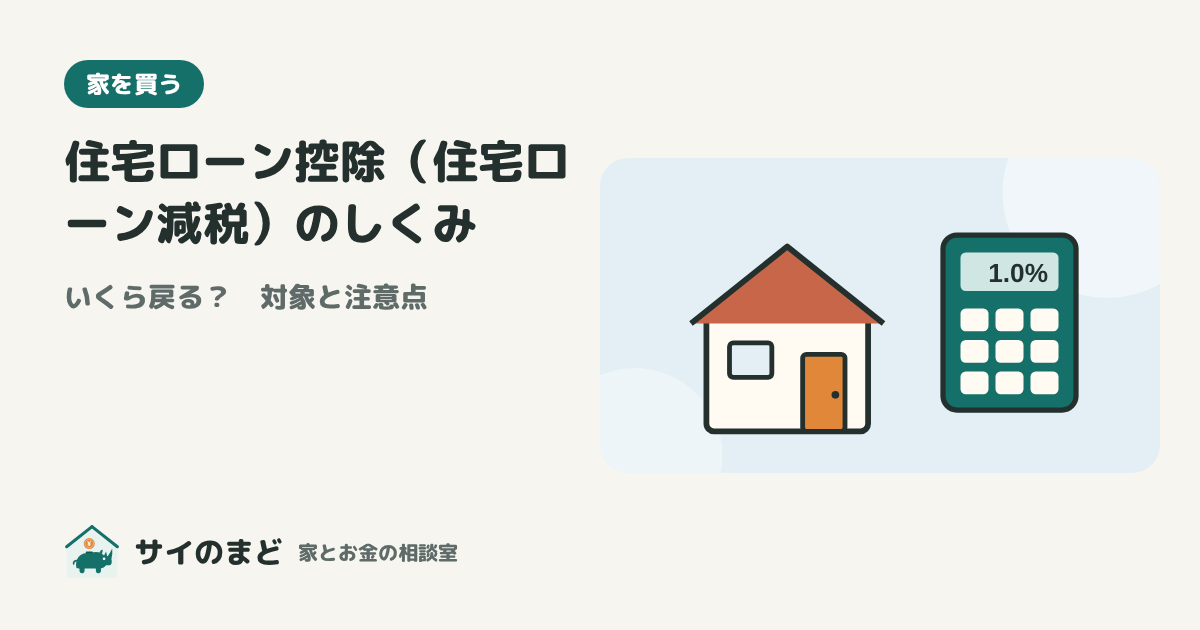
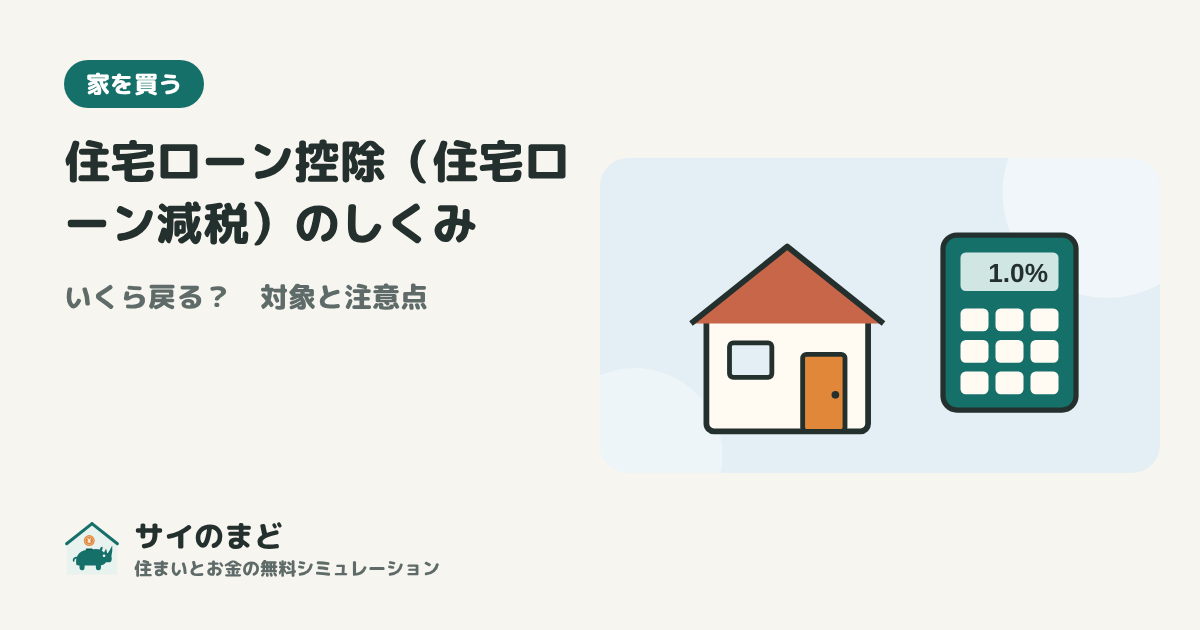
サブタイトルを「住まいとお金の無料シミュレーション」に変更、OGP画像を作り直し
Claude-Session: https://claude.ai/code/session_01MaEeNt3yU2eeN8gzjHVedL

Changed region(s): [[0.0617, 0.8143, 0.4008, 0.9349]]

diff --git a/src/shell.html b/src/shell.html
@@ -1,5 +1,5 @@
 <header class="site"><div class="wrap">
- <a class="brand" href="#home" aria-label="サイのまど トップ"><svg width="36" height="36" viewBox="0 0 64 64" aria-hidden="true"><path d="M32 3 L61 26 V61 H3 V26 Z" fill="#e8f2ee"/><path d="M32 3 L61 26" stroke="#16706a" stroke-width="3.5" stroke-linecap="round"/><path d="M32 3 L3 26" stroke="#16706a" stroke-width="3.5" stroke-linecap="round"/><g transform="translate(3.5 9) scale(0.89)"><path d="M12 46 C10 36 15 28 25 27 L37 26 C41 26 44 27 46 29 L47.4 30.2 Q48.9 27.7 50 25.2 Q50.9 28 51.3 30.9 L52.2 31.4 Q55.3 26.9 58 21.4 Q58.7 28.4 56.9 35.2 C57.6 37.4 57.6 40 56.6 41.5 C55.6 43 53.6 43 52 43 L50 43 C48 46 45 47 42 47 L16 47 C14 47 12.5 46.8 12 46 Z" fill="#16706a"/><path d="M42 27.5 C42 24 44 22.5 45.5 23 C46 25 45.5 27 44 28.5 Z" fill="#16706a"/><circle cx="47.5" cy="34.5" r="1.7" fill="#fff"/><rect x="16" y="44" width="6.5" height="9" rx="2.6" fill="#16706a"/><rect x="37" y="44" width="6.5" height="9" rx="2.6" fill="#16706a"/><path d="M12.5 37 C9.5 37 8 39 8.5 41" stroke="#16706a" stroke-width="2.2" fill="none" stroke-linecap="round"/><rect x="24" y="25.3" width="9" height="2.2" rx="1.1" fill="#0f5953"/><circle cx="28.5" cy="15" r="7" fill="#e0873a"/><circle cx="28.5" cy="15" r="5.4" fill="none" stroke="#fff" stroke-opacity=".45" stroke-width="1"/><text x="28.5" y="17.95" text-anchor="middle" font-size="8.75" font-weight="800" fill="#fff" font-family="Arial,Helvetica,sans-serif">¥</text></g></svg><span><b>サイのまど</b><small>家とお金の相談室</small></span></a>
+ <a class="brand" href="#home" aria-label="サイのまど トップ"><svg width="36" height="36" viewBox="0 0 64 64" aria-hidden="true"><path d="M32 3 L61 26 V61 H3 V26 Z" fill="#e8f2ee"/><path d="M32 3 L61 26" stroke="#16706a" stroke-width="3.5" stroke-linecap="round"/><path d="M32 3 L3 26" stroke="#16706a" stroke-width="3.5" stroke-linecap="round"/><g transform="translate(3.5 9) scale(0.89)"><path d="M12 46 C10 36 15 28 25 27 L37 26 C41 26 44 27 46 29 L47.4 30.2 Q48.9 27.7 50 25.2 Q50.9 28 51.3 30.9 L52.2 31.4 Q55.3 26.9 58 21.4 Q58.7 28.4 56.9 35.2 C57.6 37.4 57.6 40 56.6 41.5 C55.6 43 53.6 43 52 43 L50 43 C48 46 45 47 42 47 L16 47 C14 47 12.5 46.8 12 46 Z" fill="#16706a"/><path d="M42 27.5 C42 24 44 22.5 45.5 23 C46 25 45.5 27 44 28.5 Z" fill="#16706a"/><circle cx="47.5" cy="34.5" r="1.7" fill="#fff"/><rect x="16" y="44" width="6.5" height="9" rx="2.6" fill="#16706a"/><rect x="37" y="44" width="6.5" height="9" rx="2.6" fill="#16706a"/><path d="M12.5 37 C9.5 37 8 39 8.5 41" stroke="#16706a" stroke-width="2.2" fill="none" stroke-linecap="round"/><rect x="24" y="25.3" width="9" height="2.2" rx="1.1" fill="#0f5953"/><circle cx="28.5" cy="15" r="7" fill="#e0873a"/><circle cx="28.5" cy="15" r="5.4" fill="none" stroke="#fff" stroke-opacity=".45" stroke-width="1"/><text x="28.5" y="17.95" text-anchor="middle" font-size="8.75" font-weight="800" fill="#fff" font-family="Arial,Helvetica,sans-serif">¥</text></g></svg><span><b>サイのまど</b><small>住まいとお金の無料シミュレーション</small></span></a>
  <nav class="gnav" aria-label="メニュー"><a href="#home" data-r="home" class="hide-sm">トップ</a><a href="#tools" data-r="tools">ツール</a><a href="#articles" data-r="articles">記事</a><a href="#about" data-r="about">サイトについて</a></nav>
 </div></header>
 <main id="view"></main>
@@ -9,7 +9,7 @@
 <footer class="ft"><div class="wrap">
  <nav class="ftguides"><a href="#g-buy">家を買う前に</a><a href="#g-sell">家を売る・住み替え</a><a href="#g-souzoku">相続と実家</a><a href="#g-money">これからのお金</a><a href="#glossary">用語集</a><a href="#links">一次情報リンク集</a></nav>
  <nav><a href="#home">トップ</a><a href="#lifeplan">ライフプラン診断</a><a href="#sell">売却・住み替え</a><a href="#loan">ローン・購入予算</a><a href="#vs">賃貸vs持ち家</a><a href="#akiya">空き家の診断</a><a href="#souzoku">相続の準備チェック（遺す方）</a><a href="#souzoku2">相続の手続きチェック（受け継ぐ方）</a><a href="#articles">記事</a><a href="#news">お知らせ</a><a href="#data">使っているデータ</a><a href="#about">サイトについて</a><a href="#about">お問い合わせ</a><a href="#privacy">プライバシーポリシー</a></nav>
- <span>© サイのまど 家とお金の相談室</span>
+ <span>© サイのまど｜住まいとお金の無料シミュレーション</span>
 </div></footer>
 <div class="dock" id="dock" hidden><div class="wrap" id="dockin"></div></div>
 <div class="toast" id="toast" hidden></div>

diff --git a/scripts/make-ogp.js b/scripts/make-ogp.js
@@ -28,10 +28,10 @@ const only=process.env.ONLY?process.env.ONLY.split(','):null;
 h1{margin:0;font-size:${main.length>18?46:54}px;line-height:1.35;font-weight:800}
 .sub{font-size:28px;line-height:1.5;color:#5f6b68;font-weight:800}
 .brand{margin-top:auto;display:flex;align-items:center;gap:14px;font-size:30px;font-weight:800}
-.brand small{font-size:20px;color:#5f6b68}
+.brand span{white-space:nowrap;line-height:1.25}.brand small{display:block;font-size:18px;color:#5f6b68;margin-top:2px}
 .r{display:flex;align-items:center;padding-right:40px}.r svg{width:100%;height:auto;border-radius:28px}</style></head>
 <body><div class="l"><span class="cat">${esc(a.cat)}</span><h1>${esc(main)}</h1>${sub?`<div class="sub">${esc(sub)}</div>`:''}
-<div class="brand"><svg width="56" height="56" viewBox="0 0 64 64"><path d="M32 3 L61 26 V61 H3 V26 Z" fill="#e8f2ee"/><path d="M32 3 L61 26" stroke="#16706a" stroke-width="3.5" stroke-linecap="round"/><path d="M32 3 L3 26" stroke="#16706a" stroke-width="3.5" stroke-linecap="round"/><g transform="translate(3.5 9) scale(0.89)"><path d="M12 46 C10 36 15 28 25 27 L37 26 C41 26 44 27 46 29 L47.4 30.2 Q48.9 27.7 50 25.2 Q50.9 28 51.3 30.9 L52.2 31.4 Q55.3 26.9 58 21.4 Q58.7 28.4 56.9 35.2 C57.6 37.4 57.6 40 56.6 41.5 C55.6 43 53.6 43 52 43 L50 43 C48 46 45 47 42 47 L16 47 C14 47 12.5 46.8 12 46 Z" fill="#16706a"/><path d="M42 27.5 C42 24 44 22.5 45.5 23 C46 25 45.5 27 44 28.5 Z" fill="#16706a"/><circle cx="47.5" cy="34.5" r="1.7" fill="#fff"/><rect x="16" y="44" width="6.5" height="9" rx="2.6" fill="#16706a"/><rect x="37" y="44" width="6.5" height="9" rx="2.6" fill="#16706a"/><path d="M12.5 37 C9.5 37 8 39 8.5 41" stroke="#16706a" stroke-width="2.2" fill="none" stroke-linecap="round"/><rect x="24" y="25.3" width="9" height="2.2" rx="1.1" fill="#0f5953"/><circle cx="28.5" cy="15" r="7" fill="#e0873a"/><circle cx="28.5" cy="15" r="5.4" fill="none" stroke="#fff" stroke-opacity=".45" stroke-width="1"/><text x="28.5" y="17.95" text-anchor="middle" font-size="8.75" font-weight="800" fill="#fff" font-family="Arial,Helvetica,sans-serif">¥</text></g></svg>サイのまど <small>家とお金の相談室</small></div></div>
+<div class="brand"><svg width="56" height="56" viewBox="0 0 64 64"><path d="M32 3 L61 26 V61 H3 V26 Z" fill="#e8f2ee"/><path d="M32 3 L61 26" stroke="#16706a" stroke-width="3.5" stroke-linecap="round"/><path d="M32 3 L3 26" stroke="#16706a" stroke-width="3.5" stroke-linecap="round"/><g transform="translate(3.5 9) scale(0.89)"><path d="M12 46 C10 36 15 28 25 27 L37 26 C41 26 44 27 46 29 L47.4 30.2 Q48.9 27.7 50 25.2 Q50.9 28 51.3 30.9 L52.2 31.4 Q55.3 26.9 58 21.4 Q58.7 28.4 56.9 35.2 C57.6 37.4 57.6 40 56.6 41.5 C55.6 43 53.6 43 52 43 L50 43 C48 46 45 47 42 47 L16 47 C14 47 12.5 46.8 12 46 Z" fill="#16706a"/><path d="M42 27.5 C42 24 44 22.5 45.5 23 C46 25 45.5 27 44 28.5 Z" fill="#16706a"/><circle cx="47.5" cy="34.5" r="1.7" fill="#fff"/><rect x="16" y="44" width="6.5" height="9" rx="2.6" fill="#16706a"/><rect x="37" y="44" width="6.5" height="9" rx="2.6" fill="#16706a"/><path d="M12.5 37 C9.5 37 8 39 8.5 41" stroke="#16706a" stroke-width="2.2" fill="none" stroke-linecap="round"/><rect x="24" y="25.3" width="9" height="2.2" rx="1.1" fill="#0f5953"/><circle cx="28.5" cy="15" r="7" fill="#e0873a"/><circle cx="28.5" cy="15" r="5.4" fill="none" stroke="#fff" stroke-opacity=".45" stroke-width="1"/><text x="28.5" y="17.95" text-anchor="middle" font-size="8.75" font-weight="800" fill="#fff" font-family="Arial,Helvetica,sans-serif">¥</text></g></svg><span>サイのまど<small>住まいとお金の無料シミュレーション</small></span></div></div>
 <div class="r" id="r"></div>
 <script>const esc=${esc.toString()};${illustSrc};document.getElementById('r').innerHTML=illust(${JSON.stringify({title:a.title,cat:a.cat,il:a.il})});</script></body></html>`;
     fs.writeFileSync(tmp,html);

diff --git a/src/js/10-core.js b/src/js/10-core.js
@@ -1,5 +1,5 @@
 /* ===== サイのまど サイト本体 ===== */
-const SITE={name:'サイのまど',sub:'家とお金の相談室',contactUrl:SITE_CFG.contactForm||''}; /* contactUrl：GoogleフォームのURLを入れると、お問い合わせボタンが有効になります */
+const SITE={name:'サイのまど',sub:'住まいとお金の無料シミュレーション',contactUrl:SITE_CFG.contactForm||''}; /* contactUrl：GoogleフォームのURLを入れると、お問い合わせボタンが有効になります */
 const LKEY='iekane-lifeplan-v1';
 const PK=['A','B','C'];
 const PCOL={A:'var(--accent)',B:'var(--planB)',C:'var(--planC)'};
@@ -38,7 +38,7 @@ function go(){
   if(window.__shared)v.insertAdjacentHTML('afterbegin',sharedBanner());
   if(location.hash==='#tools'){const el=document.getElementById('tools');if(el)setTimeout(()=>el.scrollIntoView(),0)}
   toolInfoTail(r);legalTail(r);adTail(r);setTimeout(fillAds,0);
-  if(!['article','hub','notfound'].includes(r))document.title=r==='home'?'サイのまど 家とお金の相談室':TITLES[r]+'｜サイのまど';
+  if(!['article','hub','notfound'].includes(r))document.title=r==='home'?'サイのまど｜住まいとお金の無料シミュレーション':TITLES[r]+'｜サイのまど';
 }
 if(!window.PAGE)window.addEventListener('hashchange',()=>{const h=location.hash;if(h.startsWith('#s='))return;go();if(h!=='#tools')scrollTo(0,0)});
 
@@ -62,7 +62,7 @@ const TOOLS=[
 function vHome(v){
   const S=LP.plans.A,r=sim(S),s=summarize(r,S);
   v.innerHTML=`<div class="heroband"><section class="wrap hero">
-   <div><div class="k">家とお金の相談室</div>
+   <div><div class="k">住まいとお金の無料シミュレーション</div>
     <h1>家のことを決める前に、<br><em>お金の未来</em>を見てみよう。</h1>
     <p>家を買う、売る、相続する。大きな決断の前に、95歳までのお金の流れを数字で確かめられる無料ツールをそろえています。</p>
     <div class="acts"><a class="btn primary big" href="#lifeplan">ライフプラン診断をはじめる</a><a class="btn big ghost" href="#tools">ツール一覧</a></div>

diff --git a/src/js/24-export.js b/src/js/24-export.js
@@ -67,7 +67,7 @@ function printReport(){
   const cur=R[key], d=new Date();
   const ret=cur.r.find(x=>x.a===Math.round(n(cur.S.workEnd)))||cur.r[cur.r.length-1];
   const el=document.getElementById('printArea');
-  el.innerHTML=`<header class="pr-h"><div><b>サイのまど</b> 家とお金の相談室</div><div>${d.getFullYear()}年${d.getMonth()+1}月${d.getDate()}日 作成</div></header>
+  el.innerHTML=`<header class="pr-h"><div><b>サイのまど</b> 住まいとお金の無料シミュレーション</div><div>${d.getFullYear()}年${d.getMonth()+1}月${d.getDate()}日 作成</div></header>
    <h1>ライフプラン診断レポート</h1>
    <h2>結果のまとめ</h2><table class="cf"><tbody><tr class="hd"><th>パターン</th><td>判定</td><td>95歳時点の金融資産</td><td>仕事を辞める時</td><td>いちばん少ない時</td><td>95歳時点の純資産</td></tr>
     ${ks.map(k=>{const s=R[k].s;return `<tr><th>${k}：${esc(LP.names[k]||'')}</th><td>${s.st.t}</td><td>${fmt(s.last.bal)}万円</td><td>${fmt(s.retire.bal)}万円</td><td>${s.min.a}歳 ${fmt(s.min.bal)}万円</td><td>${fmt(s.last.bs.nw)}万円</td></tr>`}).join('')}</tbody></table>

diff --git a/README.md b/README.md
@@ -1,4 +1,4 @@
-# サイのまど 家とお金の相談室
+# サイのまど｜住まいとお金の無料シミュレーション
 
 住まいとお金の無料ツールと記事のサイトです。
 ファイルを直して保存すると、**自動でチェック → 公開**されます。プログラムの知識は要りません。
